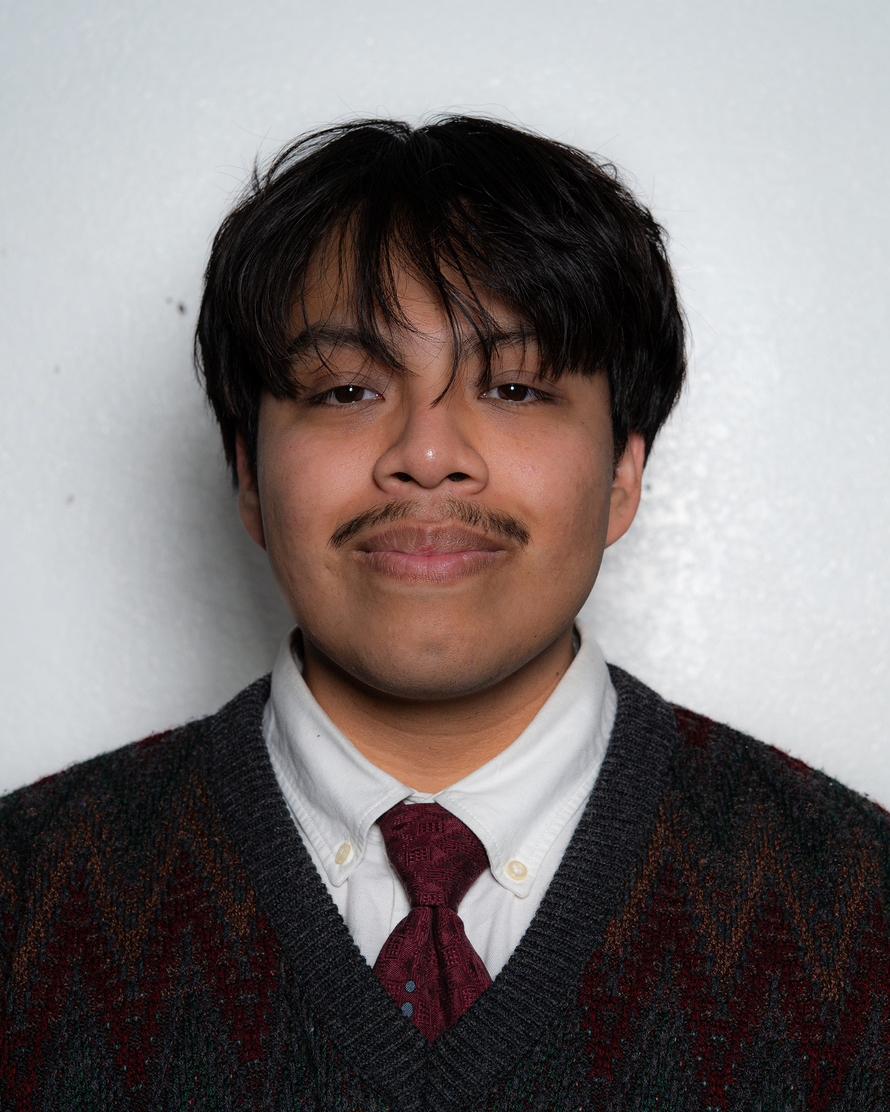
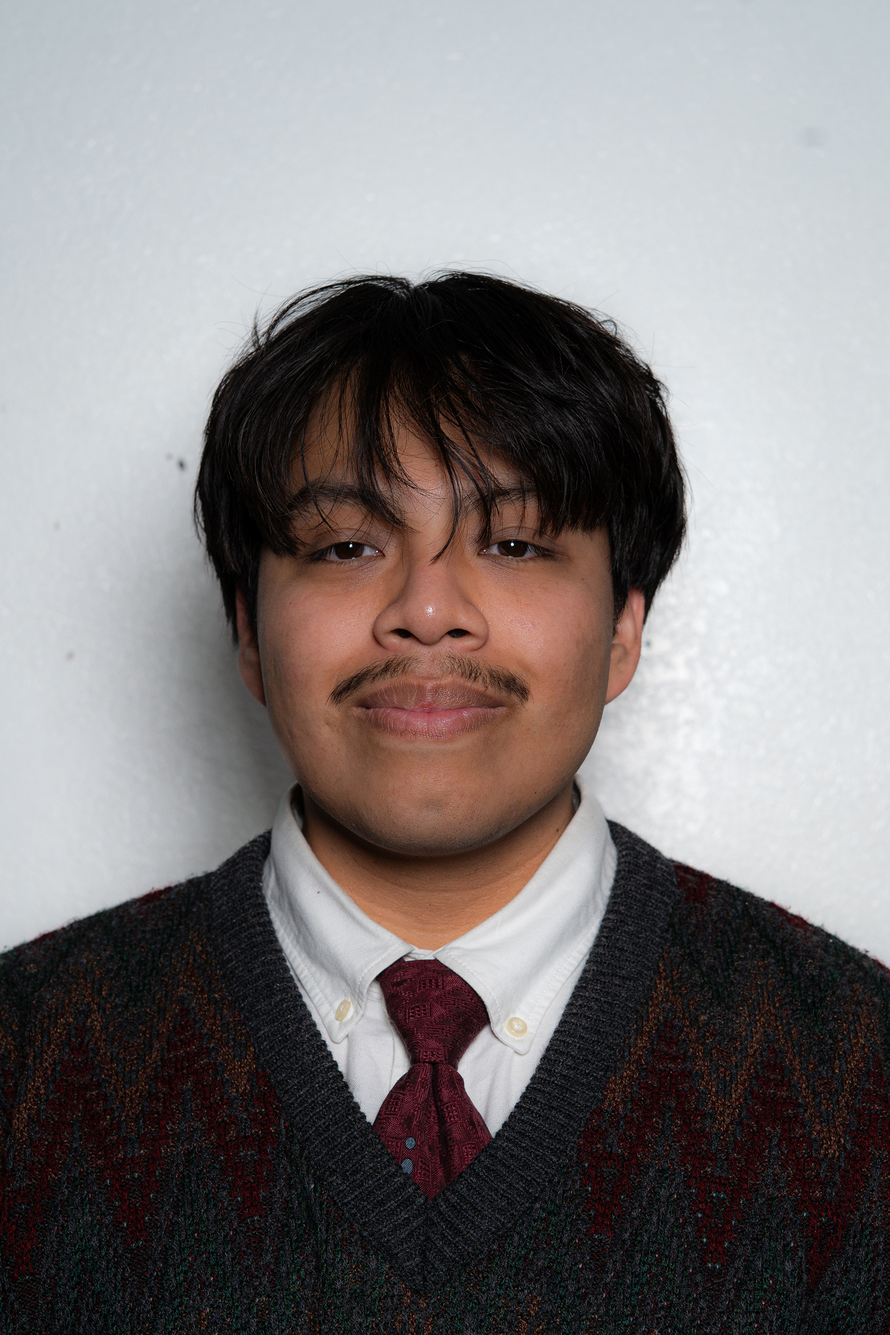
update image

Changed region(s): [[0.0, 0.0938, 1.0, 1.0], [0.0, 0.6875, 0.0312, 0.7188]]

diff --git a/index.html b/index.html
@@ -53,7 +53,7 @@
                 <div class="about-me">
                     <h1>About Me</h1>
                 </div>
-                <img src="img/_DSC0089-Edit.jpg" width="320px" alt="photo of the photographer">
+                <img src="img/photographer.jpg" alt="photo of the photographer">
                 <div class="intro-text">
                     <div class="light-text"><p>Phoenix, Arizona Photographer</p></div>
                     <h2>Hey, I am Nefi Lopez</h2>
